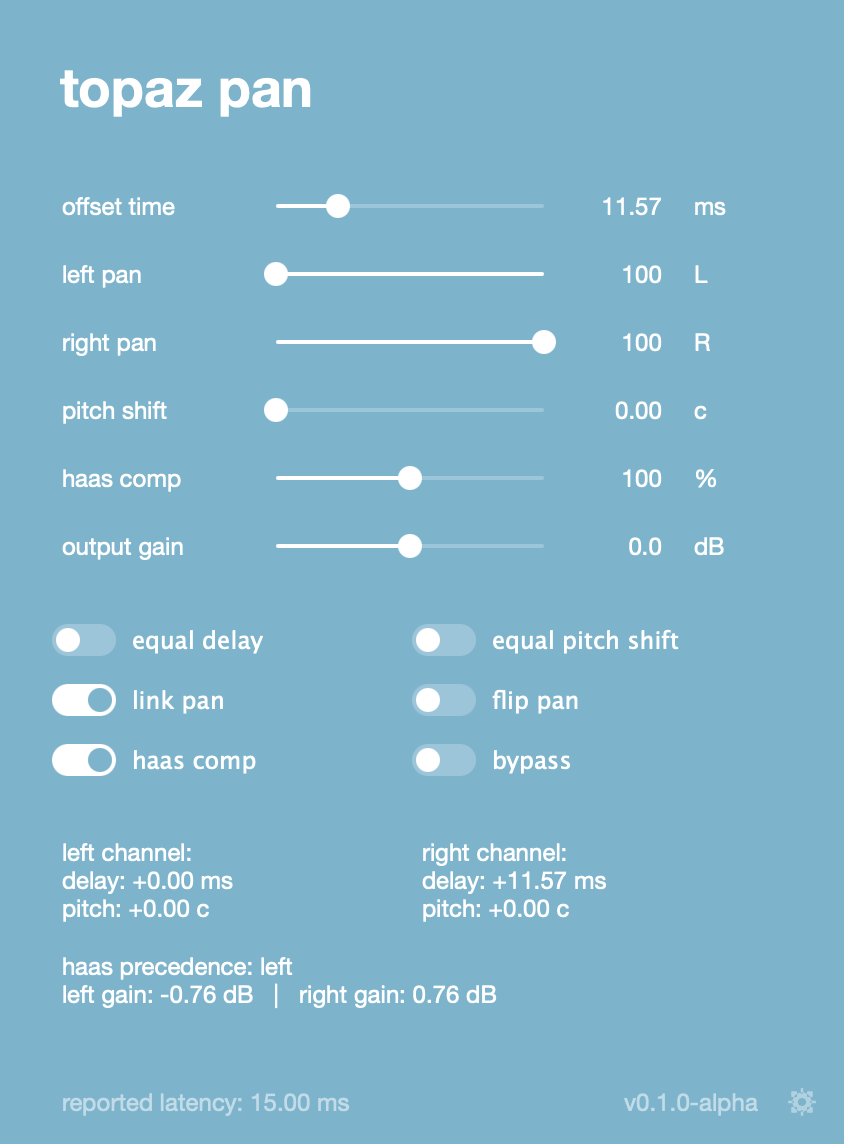
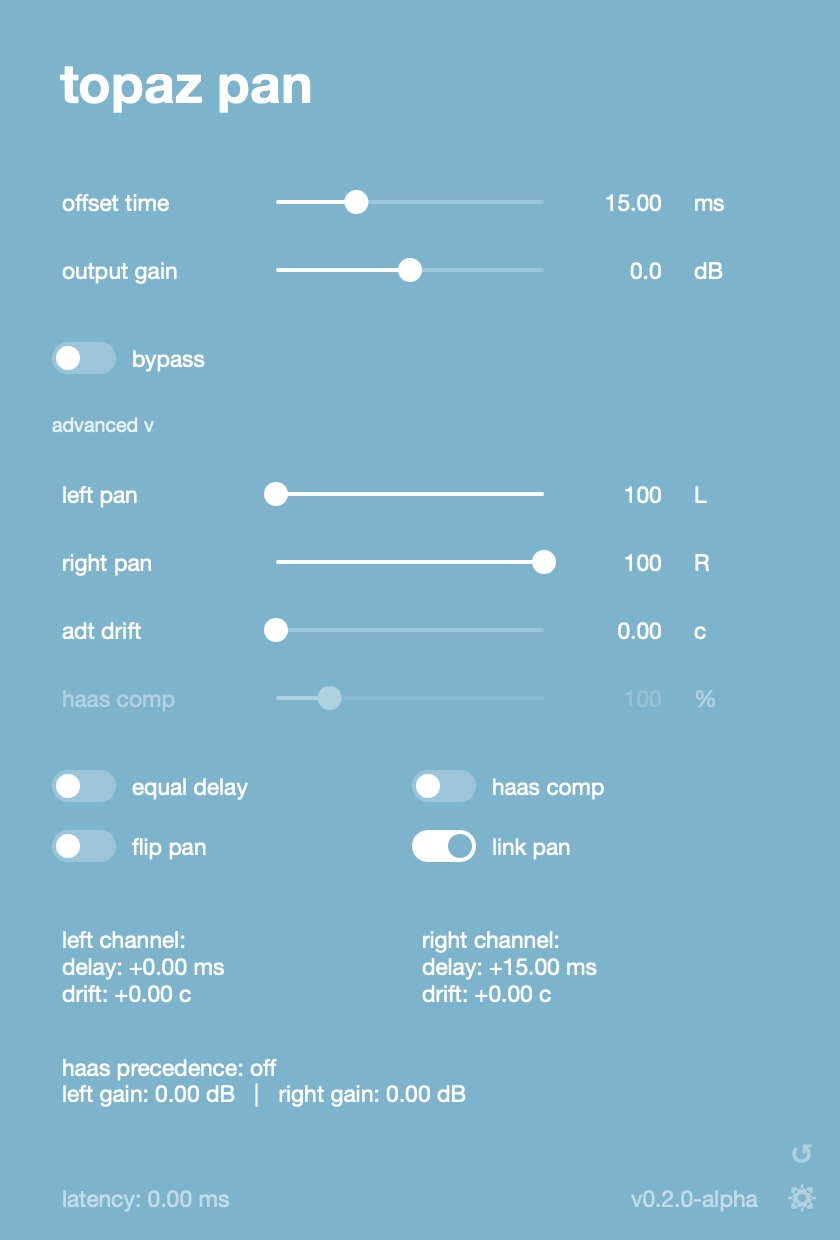
readme update

diff --git a/README.md b/README.md
@@ -3,7 +3,7 @@
 </p>
 
 <p align="center">
-  An extremely simple stereo vocal widener plugin.
+  An extremely simple vocal widener plugin.
 </p>
 
 <p align="center">
@@ -39,9 +39,9 @@
 ---
 
 
-A tiny plugin for a very specific job: widening vocal harmonies without the hassle of managing duplicate tracks.
+A tiny plugin for a very specific job: widening vocal harmonies without managing duplicate tracks.
 
-It gives you simple widening based on the Haas effect, micro pitch-shift separation, L/R panning, optional channel volume balance compensation, and a detailed and transparent interface that gives an optimal result just by adding it to your track.
+It gives you Haas-based widening, optional ADT-style drift and decorrelation, L/R panning, optional channel balance compensation, and an `advanced` section for the extra controls.
 
 
 
@@ -77,7 +77,7 @@ There are already plugins that """"do this"""", but they never quite felt like t
 
 The gist of the problem is that there does not seem to be a plugin that literally only duplicates and time shifts the audio, and nothing else. So I decided to make one.
 
-Every parameter clearly shows exactly what it is doing to the audio. There are no hidden modulation tricks or mystery processing. Additional features are available if you want them, but every extra feature can be completely disabled.
+Every parameter clearly shows exactly what it is doing to the audio. There are no hidden modulation tricks or mystery processing. Additional features are available if you want them, but every extra feature can be completely disabled. In fact, every additional feature is off by default for users who want a one-to-one replication of the original process.
 
 That means you can reduce the plugin down to exactly the same result as manually duplicating and nudging the track in your DAW, but without the hassle of managing duplicate tracks.
 
@@ -94,8 +94,8 @@ That means you can reduce the plugin down to exactly the same result as manually
 At a high level, the plugin combines three simple cues:
 
 - a small timing difference
-- a small pitch difference (optional)
 - controlled left/right placement
+- optional level balance compensation
 
 That combination is enough to trick your brain into making harmonies and doubles feel wide.
 
@@ -105,38 +105,44 @@ The "Haas effect" is the main idea behind the widening. If one side arrives a li
 
 ### Haas comp (compensation)
 
-When you delay one channel, it can make the undelayed channel sound louder, creating a perceived imbalance. This control adjusts the volume of the left and right channels simultaneously based on math to keep the image feeling balanced. 
+When you delay one channel, it can make the undelayed channel sound louder, creating a perceived imbalance. This control adjusts the volume of the left and right channels simultaneously based on math to keep the image feeling balanced.
+
+`haas comp` is an experimental feature and subject to change. It is off by default in `advanced` for users who want the basic manual process first, and is there for people who want to enable it and adjust it to taste.
 
 ---
 
 ## Controls
 
+By default, the main screen only shows `offset time`, `output gain`, and `bypass`.
+Click `advanced` to reveal the rest of the controls.
+
 | Control | Description |
 | --- | --- |
-| `offset time` | Sets the Haas delay offset used for width. |
-| `left pan` / `right pan` | Places the two sides in the stereo field. These are linked by default for convenience. |
-| `pitch shift` | Adds subtle pitch difference between channels. See the note below for a disclaimer regarding this feature.|
-| `haas comp` | Balances the volume of the left and right channels to compensate for the Haas effect. |
+| `offset time` | Sets the Haas delay offset used for width. The default is `15 ms`. |
 | `output gain` | Controls final output level. |
+| `left pan` / `right pan` | Places the two sides in the stereo field. These are linked by default for convenience. |
+| `adt drift` | Adds ADT-style drift and decorrelation between channels. Experimental feature, subject to change. Off by default in `advanced`. |
+| `haas comp` | Controls how strongly the plugin compensates for the perceived level imbalance caused by the Haas effect. Experimental feature, subject to change. Off by default in `advanced`. |
 
 | Toggle | Description |
 | --- | --- |
-| `equal delay` | (Experimental feature) Centers the timing offset. Instead of delaying only one side (which may make the vocal feel ever so slightly "late"), it splits the difference so the core signal stays locked to the beat. This may not matter because the offsets are so small anyways. Introduces slightly higher latency when turned on. |
-| `equal pitch shift` | (Experimental feature) Symmetrical detuning. Shifts both channels in opposite directions in order to keep the overall panned vocal more pitch-centered to the original pitch. This may not matter because the pitch shifts are so small anyways. |
+| `equal delay` | Centers the timing offset. Instead of delaying only one side, it splits the timing correction so the core signal stays more rhythmically centered. This introduces a little extra latency when enabled. |
 | `link pan` | Links the left and right panning. If this is off, the left and right channels can be panned independently. Honestly, I'm not sure why you would ever want to turn this off. |
 | `flip pan` | Flips the left and right channels. |
-| `haas comp` | Bypasses the Haas compensation. |
+| `haas comp` | Enables or bypasses Haas compensation. |
 | `bypass` | Bypasses the plugin. |
 
 ### Quick starting point
 
-1. Add topaz pan to the **stereo** vocal track/bus that you want to widen.
-2. Change `offset time` to your liking. A sweet spot range is ~10-25ms.
-3. Done! You do not need to change the defaults of the other settings to get a good result.
+1. Add topaz pan to the vocal track or bus that you want to widen. The plugin accepts mono or stereo input and outputs stereo.
+2. Change `offset time` to your liking. A sweet spot range is still around `10-25 ms`, and the default now starts at `15 ms`.
+3. If you need more control, open `advanced` and adjust pan, ADT drift, or Haas compensation.
 
-### About pitch shift
+### About ADT drift
 
-I believe that the simple pitch shifting algorithm used in this plugin (and many others) is not optimal and can create phasing issues. Therefore, I recommend to either leave pitch shifting at 0 or a very small amount, and always solo the track if using pitch shift to check for any issues. I will work on a better algorithm in the future.
+`adt drift` is based on artificial double tracking. Instead of only delaying one side, it adds tiny pitch movement and timing variation between the left and right channels. The idea is to slightly decorrelate the two sides so they do not line up quite as perfectly, which can help if the basic Haas + pan widening still leaves you with phasing issues.
+
+It is an experimental feature and subject to change. It is off by default in `advanced` for users who want a closer one-to-one version of the original manual process, and is there for people who want to enable it and adjust it to taste. If things already sound clean, leave it at `0`.
 
 ---
 
@@ -178,7 +184,7 @@ JUCE is fetched automatically during configure in the current setup.
 
 ```bash
 cmake -S . -B build
-cmake --build build --config Release
+cmake --build build
 ```
 
 ### Requirements
